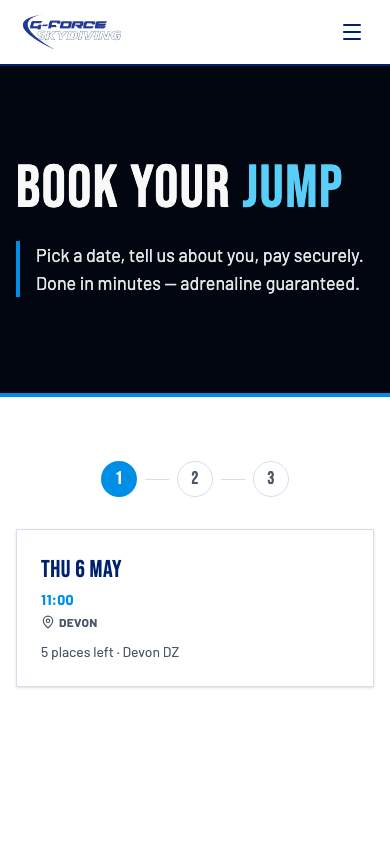
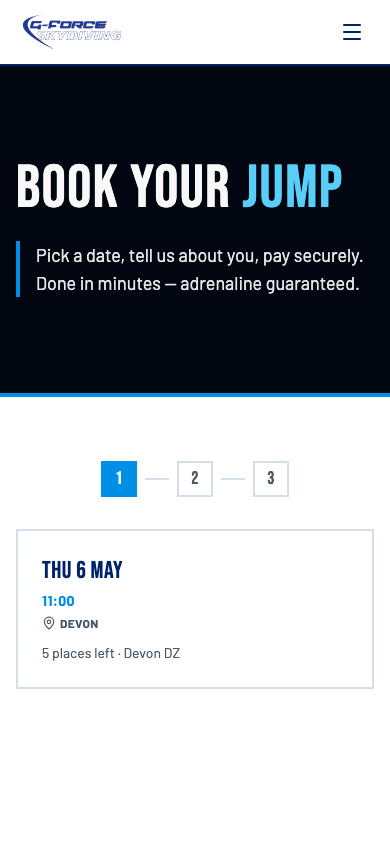
feat(design): booking flows, vouchers and payment pages in the new language, kept calm
Flat sharp surfaces, ruled summaries, bordered slot/course pickers; trust
microcopy and step indicator preserved; tandem flow walked at 390px with
no console errors.

diff --git a/resources/views/livewire/book-tandem.blade.php b/resources/views/livewire/book-tandem.blade.php
@@ -29,7 +29,7 @@
                             <button
                                 type="button"
                                 wire:click="chooseSlot({{ $jumpSlot->id }})"
-                                class="group rounded-2xl border bg-card p-6 text-left shadow-sm transition-all hover:-translate-y-0.5 hover:border-primary hover:shadow-glow focus-visible:outline-none focus-visible:ring-2 focus-visible:ring-ring"
+                                class="group border-2 border-border bg-card p-6 text-left transition-colors hover:border-primary focus-visible:outline-none focus-visible:ring-2 focus-visible:ring-ring"
                             >
                                 <p class="font-display text-2xl uppercase text-secondary">{{ $jumpSlot->starts_at->format('D j M') }}</p>
                                 <p class="mt-1 text-sm font-bold uppercase tracking-wide text-primary">{{ $jumpSlot->starts_at->format('H:i') }}</p>
@@ -99,7 +99,7 @@
                     <h4 class="font-display text-xl uppercase text-secondary">Make it unforgettable</h4>
                     <div class="mt-3 grid gap-3 sm:grid-cols-2">
                         @foreach ($product->addOns->where('purchasable', true) as $addOn)
-                            <label class="flex cursor-pointer items-center justify-between gap-3 rounded-xl border bg-background p-4 transition-colors has-[:checked]:border-primary has-[:checked]:bg-primary/5">
+                            <label class="flex cursor-pointer items-center justify-between gap-3 border-2 border-border bg-background p-4 transition-colors has-[:checked]:border-primary has-[:checked]:bg-primary/5">
                                 <span class="flex items-center gap-3">
                                     <input type="checkbox" value="{{ $addOn->id }}" wire:model.live="addOnIds" class="h-5 w-5 rounded border-input text-primary focus:ring-ring" />
                                     <span class="font-semibold text-secondary">{{ $addOn->name }}</span>
@@ -177,7 +177,7 @@
             </dl>
 
             @unless ($appliedVoucher)
-                <div class="mt-6 rounded-xl border bg-background p-4">
+                <div class="mt-6 border-2 border-border bg-background p-4">
                     <label for="bt-voucher" class="text-sm font-bold uppercase tracking-wide text-secondary">Got a gift voucher?</label>
                     <div class="mt-2 flex gap-2">
                         <x-ui.input id="bt-voucher" wire:model="voucherCode" placeholder="GV-XXXXXXXX" class="flex-1 uppercase" />

diff --git a/resources/views/pages/payment-success.blade.php b/resources/views/pages/payment-success.blade.php
@@ -7,9 +7,9 @@
         <x-site.page-hero title="You're Booked!" subtitle="Payment received — check your inbox for the confirmation." />
         <x-site.section>
             <div class="mx-auto max-w-xl">
-                <div class="rounded-2xl border bg-card p-6 shadow-sm sm:p-8">
+                <div class="border-2 border-secondary bg-card p-6 sm:p-8">
                     <div class="flex items-center gap-3">
-                        <span class="flex h-12 w-12 items-center justify-center rounded-full bg-primary text-primary-foreground shadow-glow">
+                        <span class="flex h-12 w-12 items-center justify-center bg-primary text-primary-foreground">
                             <x-icon name="check" class="h-6 w-6" />
                         </span>
                         <div>
@@ -53,7 +53,7 @@
                         @endif
                     </dl>
                 </div>
-                <div class="mt-8 rounded-2xl bg-secondary p-6 text-secondary-foreground sm:p-8">
+                <div class="mt-8 border-t-4 border-primary bg-secondary p-6 text-secondary-foreground sm:p-8">
                     <h2 class="font-display text-2xl uppercase">What happens next</h2>
                     <ul class="mt-4 space-y-3 text-sm opacity-95">
                         <li class="flex items-start gap-2"><x-icon name="check" class="mt-0.5 h-4 w-4 flex-shrink-0 text-primary" /> A confirmation email with your reference is on its way.</li>

diff --git a/resources/views/components/booking/steps.blade.php b/resources/views/components/booking/steps.blade.php
@@ -5,10 +5,10 @@
         @php $number = $i + 1; @endphp
         <li class="flex items-center gap-2">
             <span @class([
-                'flex h-9 w-9 items-center justify-center rounded-full font-display text-lg transition-colors',
-                'bg-primary text-primary-foreground shadow-glow' => $number === $current,
+                'flex h-9 w-9 items-center justify-center font-display text-lg transition-colors',
+                'bg-primary text-primary-foreground' => $number === $current,
                 'bg-secondary text-secondary-foreground' => $number < $current,
-                'border border-input bg-card text-muted-foreground' => $number > $current,
+                'border-2 border-input bg-card text-muted-foreground' => $number > $current,
             ])>
                 @if ($number < $current)
                     <x-icon name="check" class="h-4 w-4" />
@@ -22,7 +22,7 @@
                 'text-muted-foreground' => $number > $current,
             ])>{{ $label }}</span>
             @if (! $loop->last)
-                <span class="h-px w-6 bg-border sm:w-10" aria-hidden="true"></span>
+                <span class="h-0.5 w-6 bg-border sm:w-10" aria-hidden="true"></span>
             @endif
         </li>
     @endforeach

diff --git a/resources/views/livewire/book-aff.blade.php b/resources/views/livewire/book-aff.blade.php
@@ -22,7 +22,7 @@
                         <button
                             type="button"
                             wire:click="chooseCourse({{ $course->id }})"
-                            class="group flex flex-col gap-4 rounded-2xl border bg-card p-6 text-left shadow-sm transition-all hover:-translate-y-0.5 hover:border-primary hover:shadow-glow focus-visible:outline-none focus-visible:ring-2 focus-visible:ring-ring sm:flex-row sm:items-center sm:justify-between"
+                            class="group flex flex-col gap-4 border-2 border-border bg-card p-6 text-left transition-colors hover:border-primary focus-visible:outline-none focus-visible:ring-2 focus-visible:ring-ring sm:flex-row sm:items-center sm:justify-between"
                         >
                             <span>
                                 <span class="block font-display text-2xl uppercase text-secondary">{{ $course->date_range_label }}</span>

diff --git a/resources/views/livewire/buy-voucher.blade.php b/resources/views/livewire/buy-voucher.blade.php
@@ -7,7 +7,7 @@
         </div>
     @else
         <form wire:submit="pay" class="border-2 border-secondary bg-card p-6 sm:p-8">
-            <div class="flex flex-col gap-4 rounded-xl bg-secondary p-6 text-secondary-foreground sm:flex-row sm:items-center sm:justify-between">
+            <div class="flex flex-col gap-4 border-t-4 border-primary bg-secondary p-6 text-secondary-foreground sm:flex-row sm:items-center sm:justify-between">
                 <div>
                     <p class="text-xs font-bold uppercase tracking-wide opacity-80">The gift</p>
                     <p class="font-display text-3xl uppercase">{{ $product->name }}</p>

diff --git a/resources/views/components/booking/notice.blade.php b/resources/views/components/booking/notice.blade.php
@@ -1,7 +1,7 @@
 @props(['tone' => 'warning'])
 {{-- Inline banner for availability / payment problems in the booking flows. --}}
 <div @class([
-    'rounded-xl border p-4 text-sm font-medium',
+    'border-l-4 border-2 p-4 text-sm font-medium',
     'border-destructive/30 bg-destructive/10 text-destructive' => $tone === 'error',
     'border-primary/30 bg-primary/10 text-secondary' => $tone === 'warning',
 ]) role="alert">
